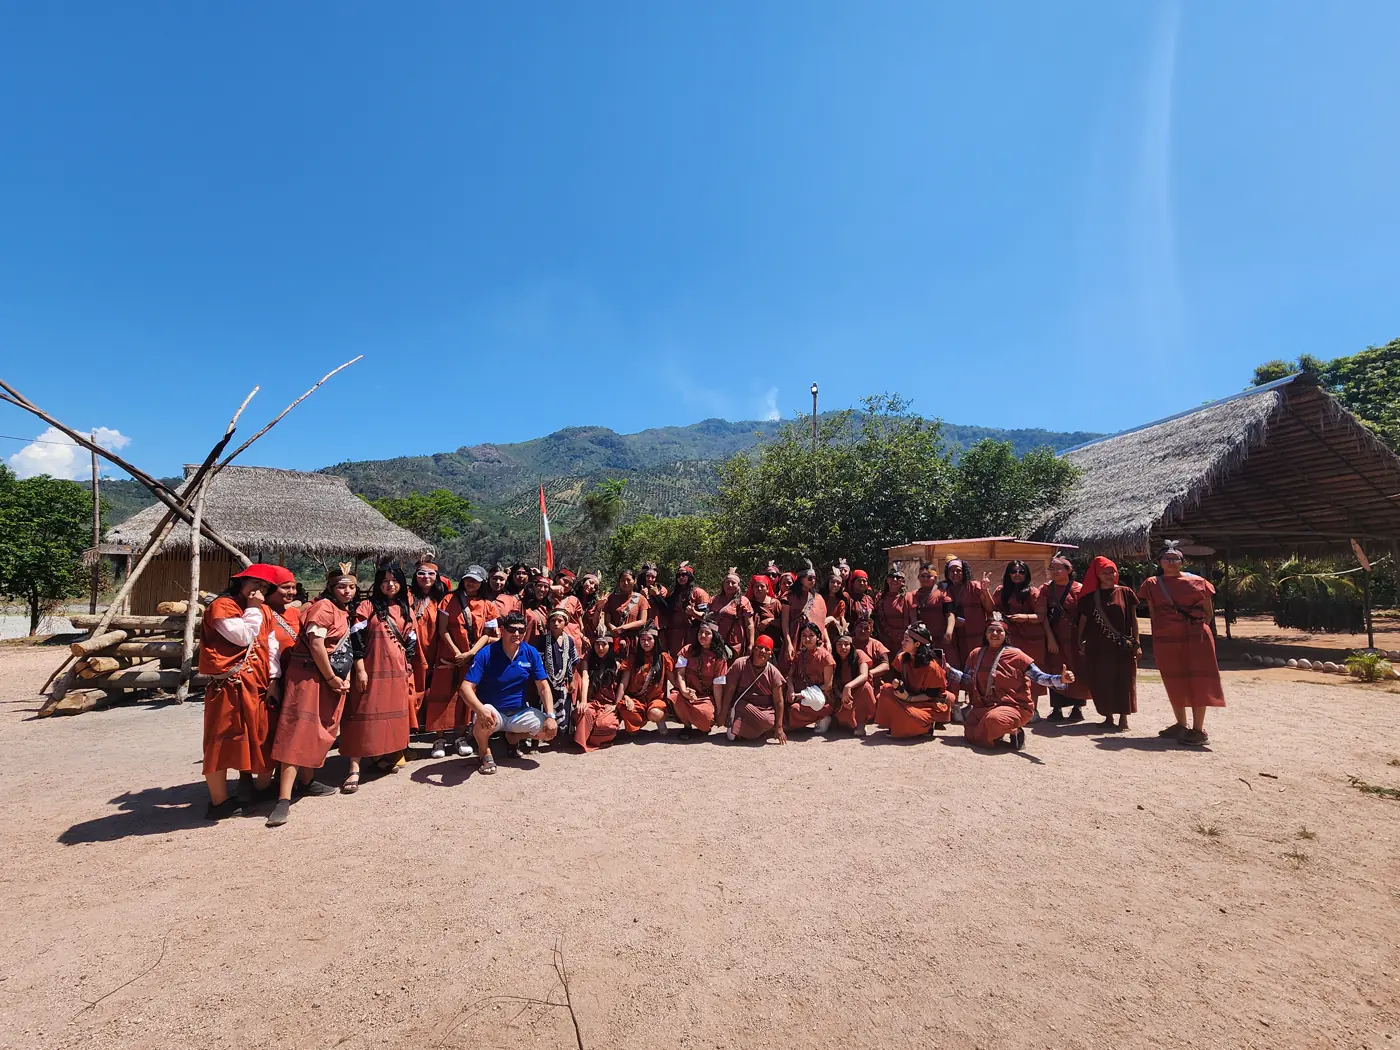
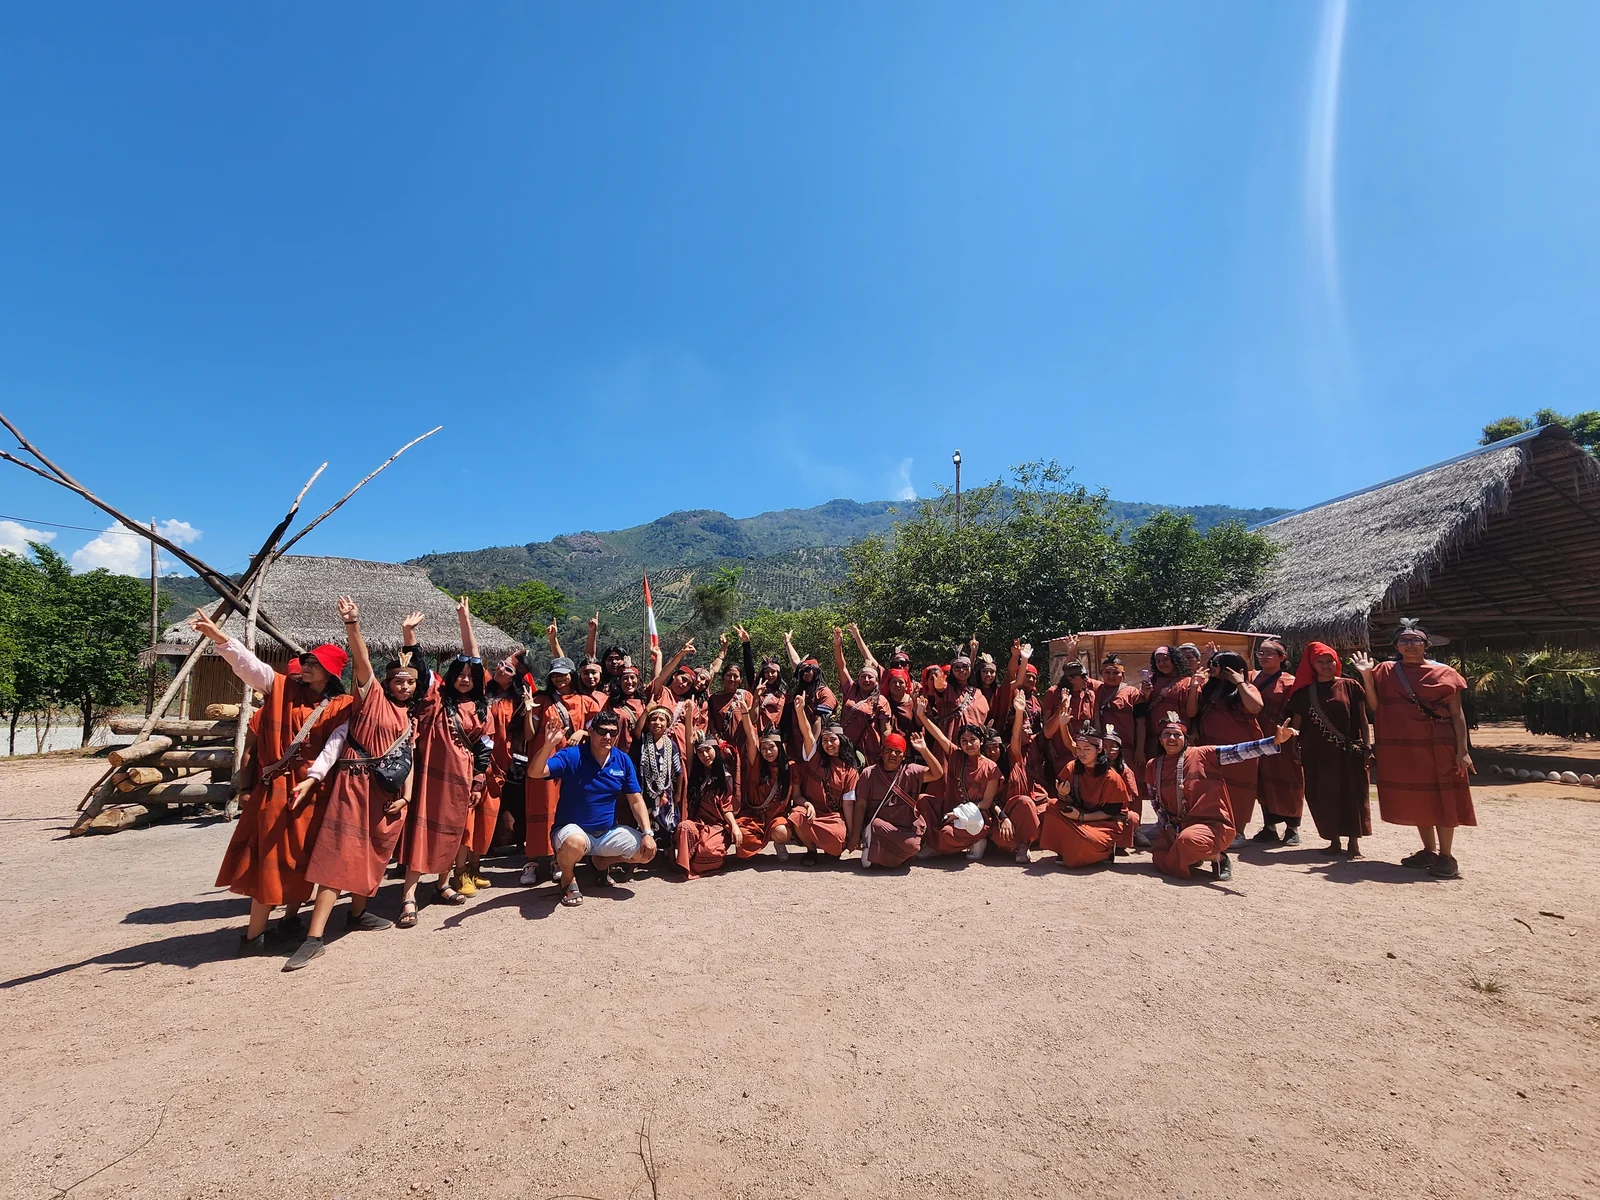
feat: actualiza fotografias del tour de Pozuzo

diff --git a/frontend/src/features/tours/TourApplication.tsx b/frontend/src/features/tours/TourApplication.tsx
@@ -89,7 +89,7 @@ const demoTours: Tour[] = [
     duration: "4 días / 3 noches",
     type: "NACIONAL",
     availableSlots: 0,
-    imageUrl: "/destinations/oxapampa-pozuzo.webp",
+    imageUrl: "/tour-galleries/pozuzo/comunidad-local.webp",
     isFeatured: true,
     status: "ACTIVO",
     itinerary: [
@@ -369,7 +369,7 @@ const demoPayment: Payment = {
 const postPaymentGuides = [
   { match: ["machu", "cusco", "puno", "arequipa"], key: "cusco", label: "Cusco, Puno y Arequipa", imageUrl: "/destinations/machu-picchu.webp", extras: ["Traslado privado", "Noche adicional", "Almuerzo regional", "Asistencia de altura", "Sesión fotográfica", "Seguro de viaje"] },
   { match: ["guayaquil", "ecuador"], key: "general", label: "Guayaquil y costa ecuatoriana", imageUrl: "/destinations/ecuador-costa.webp", extras: ["Traslado aeropuerto-hotel", "Noche adicional", "Actividad costera", "Equipaje adicional", "Seguro internacional", "Asistencia personalizada"] },
-  { match: ["oxapampa", "pozuzo"], key: "oxapampa", label: "Oxapampa y Pozuzo", imageUrl: "/destinations/oxapampa-pozuzo.webp", extras: ["Traslado privado", "Noche adicional", "Experiencia de café", "Alimentación", "Visita cultural", "Seguro de viaje"] },
+  { match: ["oxapampa", "pozuzo"], key: "oxapampa", label: "Oxapampa y Pozuzo", imageUrl: "/tour-galleries/pozuzo/comunidad-local.webp", extras: ["Traslado privado", "Noche adicional", "Experiencia de café", "Alimentación", "Visita cultural", "Seguro de viaje"] },
   { match: ["ica", "huacachina"], key: "ica", label: "Ica y Huacachina", imageUrl: "/destinations/ica-huacachina.webp", extras: ["Traslado privado", "Noche adicional", "Experiencia gastronómica", "Bodega seleccionada", "Fotografía al atardecer", "Seguro de viaje"] },
   { match: ["tarapoto", "martín"], key: "general", label: "Tarapoto y naturaleza amazónica", imageUrl: "/destinations/tarapoto.webp", extras: ["Traslado privado", "Noche adicional", "Experiencia acuática", "Alimentación", "Actividad natural", "Seguro de viaje"] },
   { match: ["italia", "florencia", "venecia"], key: "general", label: "Italia clásica", imageUrl: "/destinations/italia-clasica.webp", extras: ["Traslados privados", "Noche adicional", "Entradas culturales", "Experiencia gastronómica", "Seguro internacional", "Asistencia personalizada"] },

diff --git a/frontend/src/features/tours/config/tourMedia.ts b/frontend/src/features/tours/config/tourMedia.ts
@@ -45,9 +45,9 @@ export const tourMediaBySlug: Record<string, TourMediaCollection> = {
   "oxapampa-pozuzo": {
     introduction: "El paquete reúne identidad local, paisajes de selva alta y experiencias culturales que se ajustan a la fecha elegida.",
     items: [
-      { image: "/tour-galleries/pozuzo/portico.webp", title: "Pórtico de Pozuzo", stage: "Bienvenida al destino", alt: "Visitantes en el pórtico tradicional de Pozuzo" },
-      { image: "/tour-galleries/pozuzo/catarata.webp", title: "Naturaleza de Pozuzo", stage: "Recorrido de selva alta", alt: "Grupo de viajeros junto a una catarata en Pozuzo" },
-      { image: "/tour-galleries/pozuzo/comunidad-local.webp", title: "Encuentro cultural", stage: "Experiencia local", alt: "Viajeros durante una actividad cultural de la ruta a Pozuzo" }
+      { image: "/tour-galleries/pozuzo/portico.webp", title: "Pórtico de Pozuzo", stage: "Bienvenida al destino", alt: "Equipo de JohnToursPerú en el pórtico tradicional de Pozuzo" },
+      { image: "/tour-galleries/pozuzo/comunidad-local.webp", title: "Experiencia cultural en Pozuzo", stage: "Encuentro con la comunidad", alt: "Grupo de viajeros de JohnToursPerú durante una experiencia cultural en Pozuzo" },
+      { image: "/tour-galleries/pozuzo/catarata.webp", title: "Catarata de Pozuzo", stage: "Naturaleza de selva alta", alt: "Grupo de viajeros junto a una catarata durante el tour de Pozuzo" }
     ]
   }
 };

diff --git a/README.md b/README.md
@@ -15,6 +15,7 @@ Web publicitaria fullstack para captar clientes, mostrar tours nacionales e inte
 - Apartado compacto «Viajes reales, acompañamiento que se nota» con grupos atendidos en Machu Picchu, las islas de los Uros y Guayaquil; cada fotografía abre el paquete relacionado.
 - Evidencia operativa integrada en el mismo apartado con recepción en aeropuerto y equipo de acompañamiento, sin crear una sección extensa adicional en la portada.
 - Galerías específicas dentro de los paquetes de Machu Picchu, Lago Titicaca–Bolivia, Guayaquil, Ica–Huacachina y Oxapampa–Pozuzo; cada fotografía se vincula con una etapa pública del itinerario y no revela horarios ni datos operativos privados.
+- Oxapampa–Pozuzo utiliza como portada una experiencia cultural con viajeros y presenta una galería propia de tres momentos: comunidad local, catarata de selva alta y pórtico tradicional.
 - Quince nuevas fotografías WebP optimizadas procedentes de las siete carpetas temáticas —Aeropuerto, Bolivia, Cusco, Equipo John, Guayaquil, Ica y Pozuzo—, sin metadatos EXIF/GPS, sin marcas de agua añadidas y sin publicar los originales de alta resolución.
 - Auditoría visual de las fotografías públicas: se retiraron el logotipo y la etiqueta «Archivo propio» de Ica–Huacachina, Tarapoto y Oxapampa–Pozuzo; las tarjetas conservan un encuadre panorámico 16:9 centrado y las galerías no superponen información de procedencia sobre el material turístico.
 - Un único microvideo seleccionado de Tarapoto (7 segundos, sin audio y menos de 2 MB), disponible en su promoción y detalle con carga bajo demanda. Los clips con primeros planos o transiciones de menor calidad fueron descartados.
